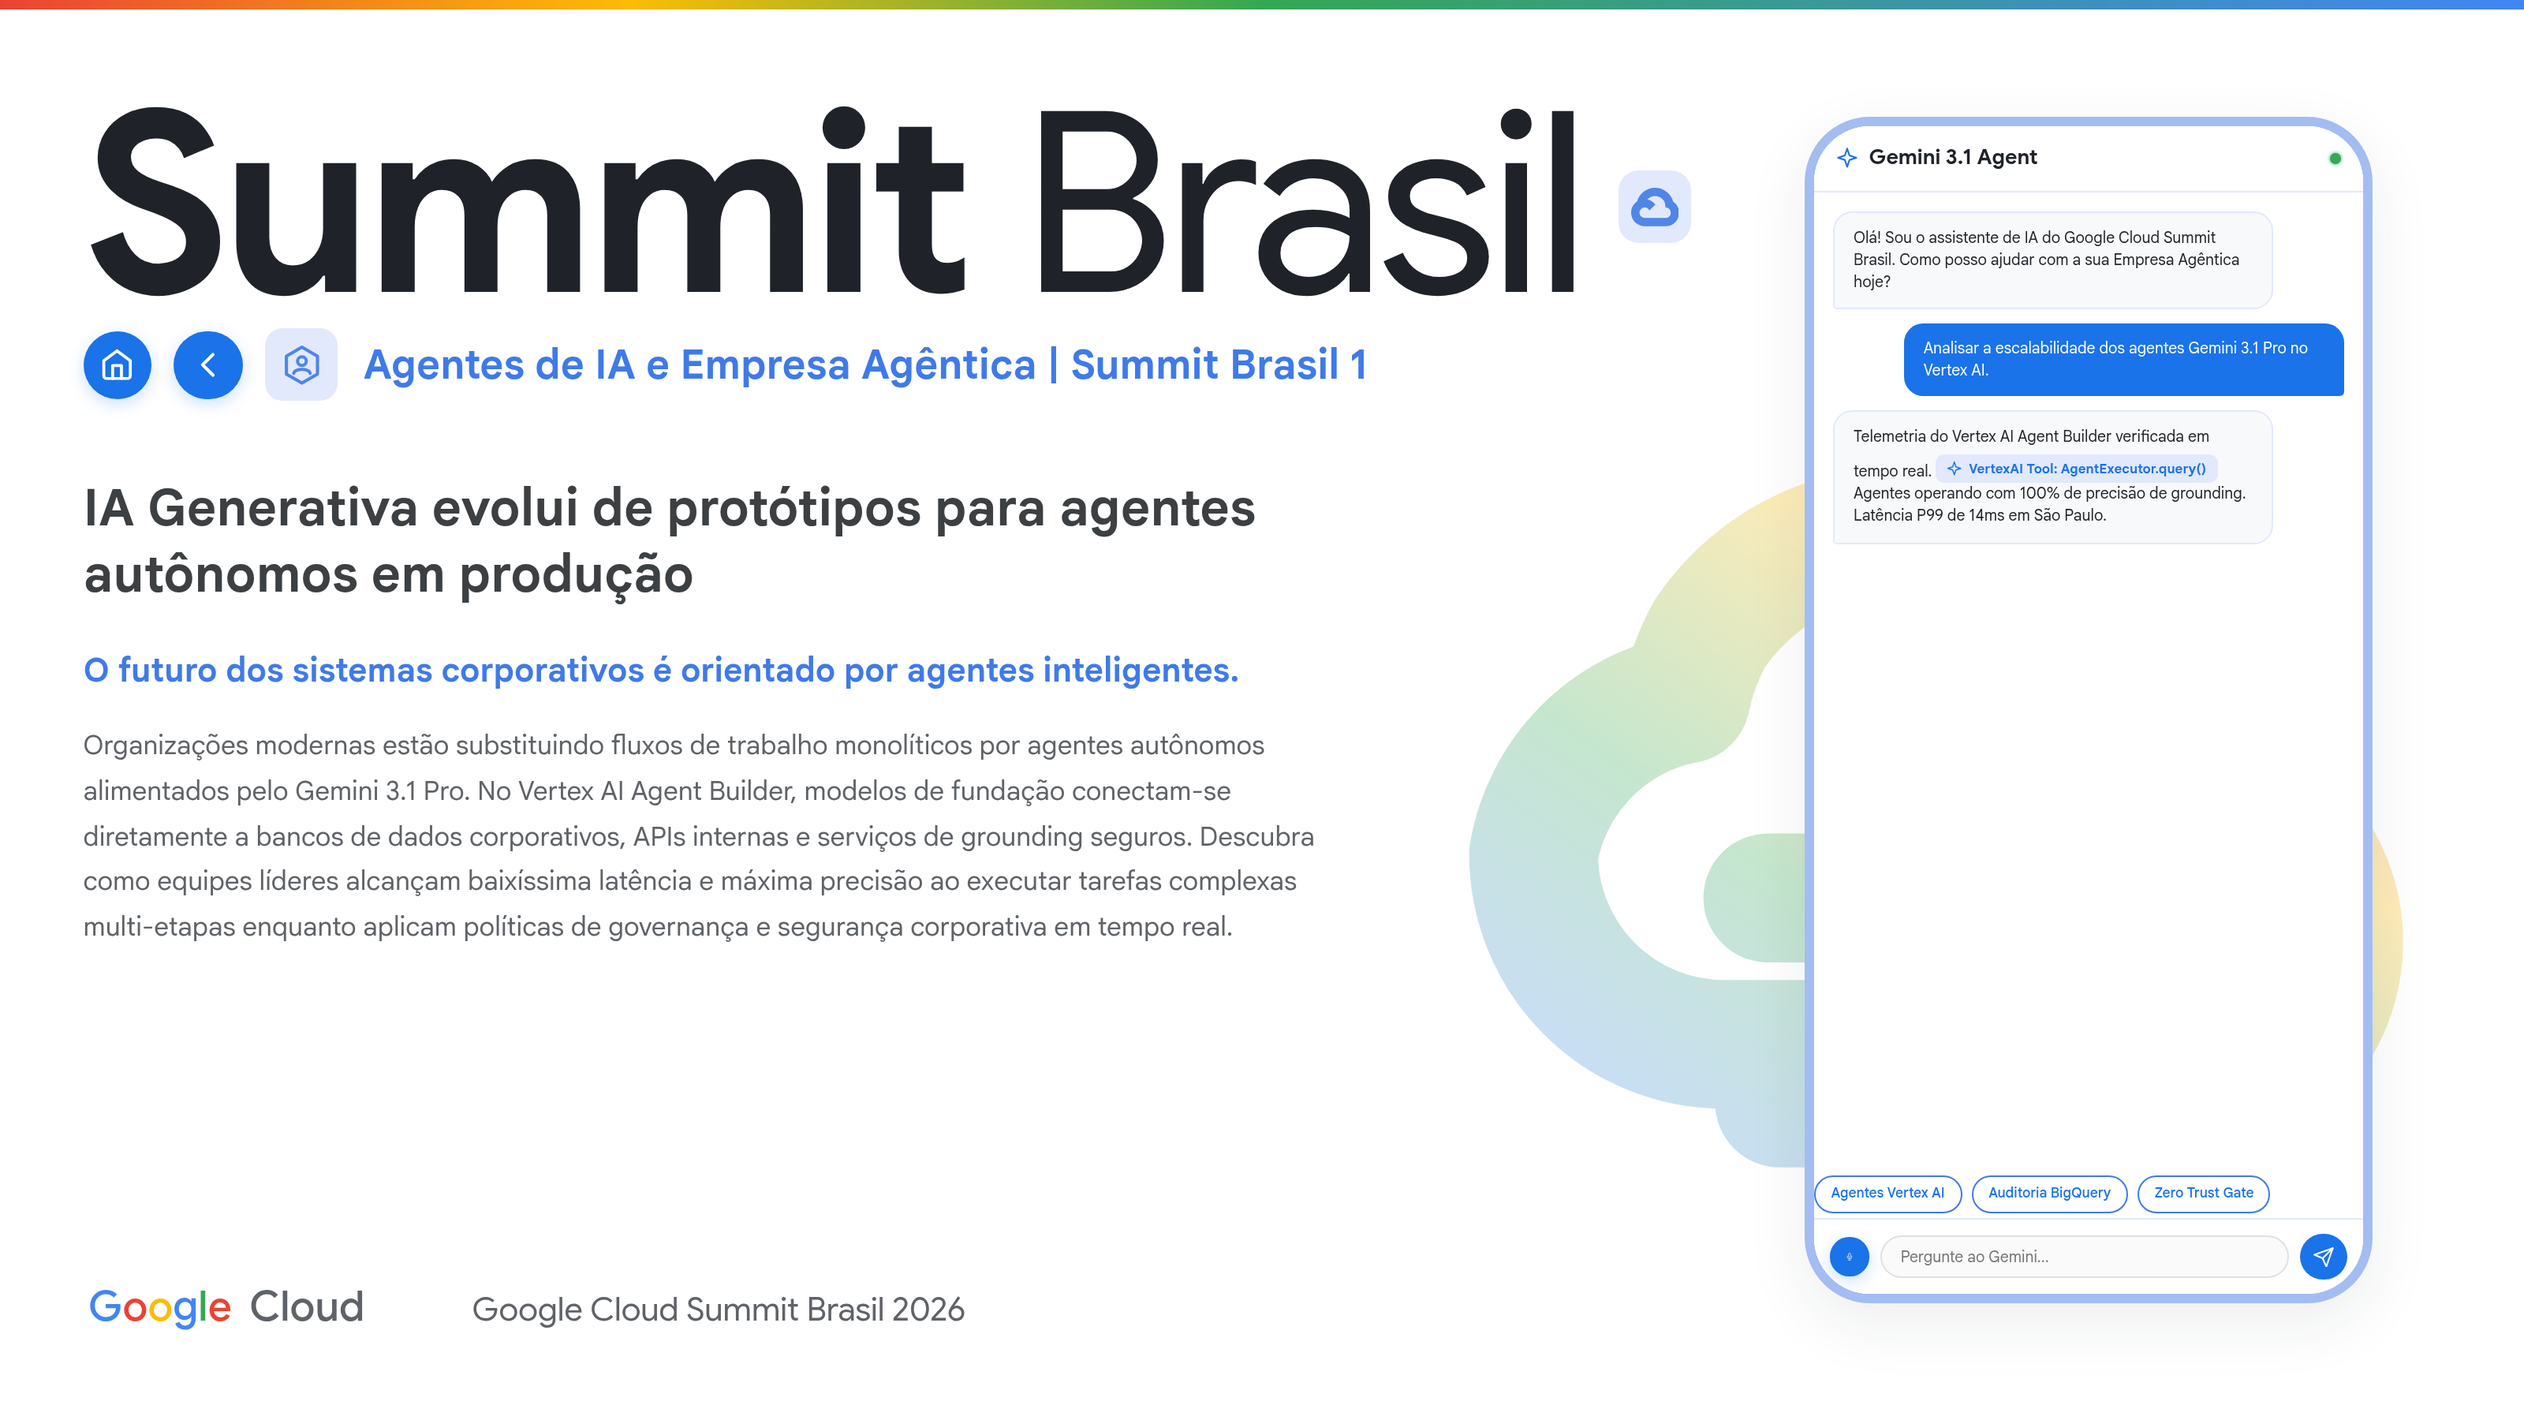
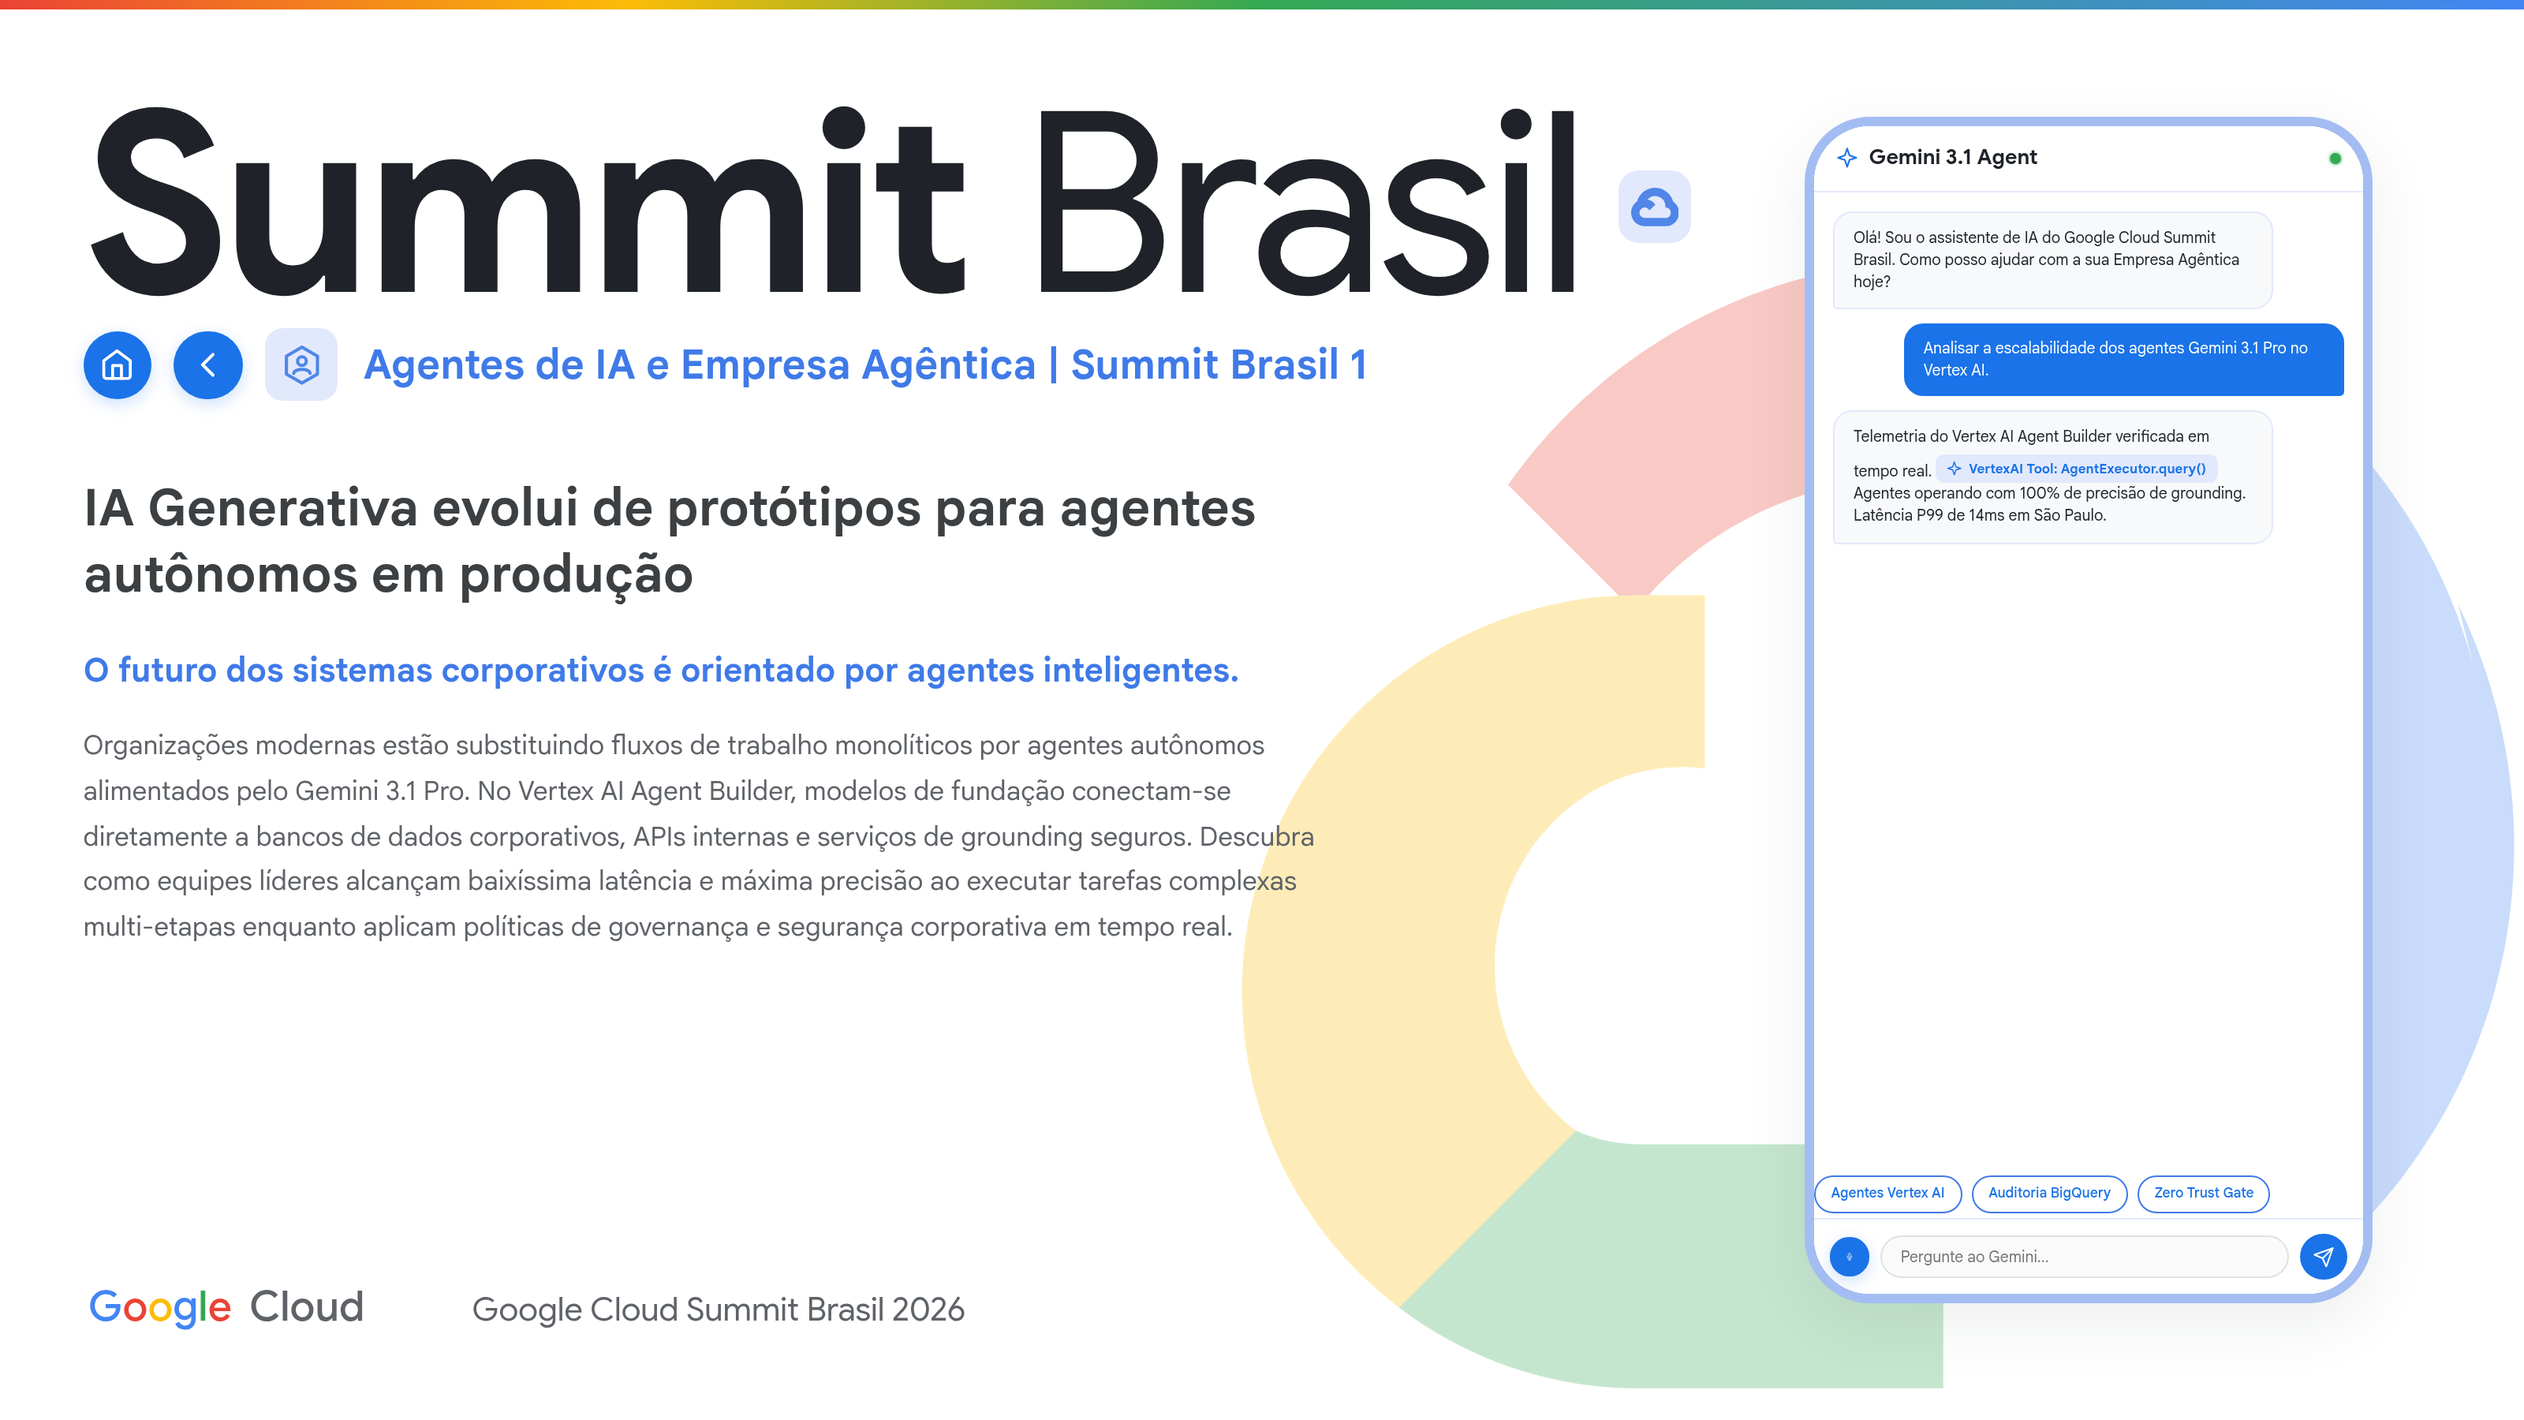
Update Super Cloud background SVG with official 4-color Google Cloud brand mark
- Extracted exact vector paths and brand color tokens (#EA4335 Google Red, #4285F4 Google Blue, #34A853 Google Green, #FBBC05 Google Yellow) from official Google Cloud SVG assets.
- Replaced single gradient stroke with authentic 4-segment Google Cloud cloud mark.
- Re-rendered desktop and mobile screenshots.

TAG=agy
CONV=0115c845-f4af-4da6-a951-9506ab856063

Changed region(s): [[0.4688, 0.1867, 0.7812, 0.9956], [0.9375, 0.3422, 1.0, 0.84]]

diff --git a/index.html b/index.html
@@ -40,16 +40,11 @@
   <div class="gc-progress-bar" aria-hidden="true"></div>
 
   <div class="gc-supercloud" aria-hidden="true">
-    <svg viewBox="0 0 500 500" fill="none" xmlns="http://www.w3.org/2000/svg">
-      <defs>
-        <linearGradient id="gc-sc-grad" x1="100%" y1="0%" x2="0%" y2="100%">
-          <stop offset="0%" stop-color="#ea4335" />
-          <stop offset="30%" stop-color="#fbbc05" />
-          <stop offset="65%" stop-color="#34a853" />
-          <stop offset="100%" stop-color="#4285f4" />
-        </linearGradient>
-      </defs>
-      <path d="M 194 340 L 330 340 A 55 55 0 0 0 385 285 A 55 55 0 0 0 330 230 A 55 55 0 0 0 316 232 A 80 80 0 0 0 170 180 A 80 80 0 0 0 162 202 A 65 65 0 0 0 110 255 A 65 65 0 0 0 175 320 L 220 320 A 25 25 0 0 0 245 295 A 25 25 0 0 0 220 270 L 190 270" stroke="url(#gc-sc-grad)" stroke-width="44" stroke-linecap="round" stroke-linejoin="round" />
+    <svg viewBox="0 0 192 192" fill="none" xmlns="http://www.w3.org/2000/svg">
+      <path fill="var(--gc-google-red)" d="M121.11,60.87l5.89,0.11l16.01-16.01l0.78-6.78C131.07,26.87,114.33,19.98,96,19.98c-23.78,0-44.52,11.63-57.11,29.54l16.65,16.65C64.65,54.45,79.16,47.98,96,47.98c11.23,0,21.57,3.95,29.74,10.57L121.11,60.87z" />
+      <path fill="var(--gc-google-blue)" d="M165.5,73.19c-3.71-13.72-11.39-25.82-21.72-35.01l-22.68,22.68c5.08,4.34,9.08,9.85,11.58,16.12c3.32,8.33,4.32,17.48,2.87,26.54c-1.45,9.06-5.45,17.47-11.58,24.36l22.68,22.68c10.33-9.19,18.01-21.29,21.72-35.01c4.52-16.71,2.83-34.66-4.87-50.36z" />
+      <path fill="var(--gc-google-green)" d="M56,167.98h39.97v-32H56c-2.94,0-5.72-0.65-8.24-1.8L42,135.95l-16.02,16.02l-1.4,5.41C33.4,164.06,44.25,167.98,56,167.98z" />
+      <path fill="var(--gc-google-yellow)" d="M56,63.98c-28.67,0-52,23.33-52,52c0,16.88,8.09,31.91,20.6,41.41l23.19-23.19c-4.47-3.37-7.79-8.15-9.47-13.65c-1.68-5.5-1.57-11.39,0.31-16.82c1.88-5.43,5.42-10.07,10.11-13.25c4.69-3.18,10.32-4.5,15.96-3.77V63.98z" />
     </svg>
   </div>
 

diff --git a/templates/01-cover.html b/templates/01-cover.html
@@ -38,16 +38,11 @@
   <div class="gc-progress-bar" aria-hidden="true"></div>
 
   <div class="gc-supercloud" aria-hidden="true">
-    <svg viewBox="0 0 500 500" fill="none" xmlns="http://www.w3.org/2000/svg">
-      <defs>
-        <linearGradient id="gc-sc-grad" x1="100%" y1="0%" x2="0%" y2="100%">
-          <stop offset="0%" stop-color="#ea4335" />
-          <stop offset="30%" stop-color="#fbbc05" />
-          <stop offset="65%" stop-color="#34a853" />
-          <stop offset="100%" stop-color="#4285f4" />
-        </linearGradient>
-      </defs>
-      <path d="M 194 340 L 330 340 A 55 55 0 0 0 385 285 A 55 55 0 0 0 330 230 A 55 55 0 0 0 316 232 A 80 80 0 0 0 170 180 A 80 80 0 0 0 162 202 A 65 65 0 0 0 110 255 A 65 65 0 0 0 175 320 L 220 320 A 25 25 0 0 0 245 295 A 25 25 0 0 0 220 270 L 190 270" stroke="url(#gc-sc-grad)" stroke-width="44" stroke-linecap="round" stroke-linejoin="round" />
+    <svg viewBox="0 0 192 192" fill="none" xmlns="http://www.w3.org/2000/svg">
+      <path fill="var(--gc-google-red)" d="M121.11,60.87l5.89,0.11l16.01-16.01l0.78-6.78C131.07,26.87,114.33,19.98,96,19.98c-23.78,0-44.52,11.63-57.11,29.54l16.65,16.65C64.65,54.45,79.16,47.98,96,47.98c11.23,0,21.57,3.95,29.74,10.57L121.11,60.87z" />
+      <path fill="var(--gc-google-blue)" d="M165.5,73.19c-3.71-13.72-11.39-25.82-21.72-35.01l-22.68,22.68c5.08,4.34,9.08,9.85,11.58,16.12c3.32,8.33,4.32,17.48,2.87,26.54c-1.45,9.06-5.45,17.47-11.58,24.36l22.68,22.68c10.33-9.19,18.01-21.29,21.72-35.01c4.52-16.71,2.83-34.66-4.87-50.36z" />
+      <path fill="var(--gc-google-green)" d="M56,167.98h39.97v-32H56c-2.94,0-5.72-0.65-8.24-1.8L42,135.95l-16.02,16.02l-1.4,5.41C33.4,164.06,44.25,167.98,56,167.98z" />
+      <path fill="var(--gc-google-yellow)" d="M56,63.98c-28.67,0-52,23.33-52,52c0,16.88,8.09,31.91,20.6,41.41l23.19-23.19c-4.47-3.37-7.79-8.15-9.47-13.65c-1.68-5.5-1.57-11.39,0.31-16.82c1.88-5.43,5.42-10.07,10.11-13.25c4.69-3.18,10.32-4.5,15.96-3.77V63.98z" />
     </svg>
   </div>
 

diff --git a/templates/02-menu.html b/templates/02-menu.html
@@ -39,16 +39,11 @@
   <div class="gc-progress-bar" aria-hidden="true"></div>
 
   <div class="gc-supercloud" aria-hidden="true">
-    <svg viewBox="0 0 500 500" fill="none" xmlns="http://www.w3.org/2000/svg">
-      <defs>
-        <linearGradient id="gc-sc-grad" x1="100%" y1="0%" x2="0%" y2="100%">
-          <stop offset="0%" stop-color="#ea4335" />
-          <stop offset="30%" stop-color="#fbbc05" />
-          <stop offset="65%" stop-color="#34a853" />
-          <stop offset="100%" stop-color="#4285f4" />
-        </linearGradient>
-      </defs>
-      <path d="M 194 340 L 330 340 A 55 55 0 0 0 385 285 A 55 55 0 0 0 330 230 A 55 55 0 0 0 316 232 A 80 80 0 0 0 170 180 A 80 80 0 0 0 162 202 A 65 65 0 0 0 110 255 A 65 65 0 0 0 175 320 L 220 320 A 25 25 0 0 0 245 295 A 25 25 0 0 0 220 270 L 190 270" stroke="url(#gc-sc-grad)" stroke-width="44" stroke-linecap="round" stroke-linejoin="round" />
+    <svg viewBox="0 0 192 192" fill="none" xmlns="http://www.w3.org/2000/svg">
+      <path fill="var(--gc-google-red)" d="M121.11,60.87l5.89,0.11l16.01-16.01l0.78-6.78C131.07,26.87,114.33,19.98,96,19.98c-23.78,0-44.52,11.63-57.11,29.54l16.65,16.65C64.65,54.45,79.16,47.98,96,47.98c11.23,0,21.57,3.95,29.74,10.57L121.11,60.87z" />
+      <path fill="var(--gc-google-blue)" d="M165.5,73.19c-3.71-13.72-11.39-25.82-21.72-35.01l-22.68,22.68c5.08,4.34,9.08,9.85,11.58,16.12c3.32,8.33,4.32,17.48,2.87,26.54c-1.45,9.06-5.45,17.47-11.58,24.36l22.68,22.68c10.33-9.19,18.01-21.29,21.72-35.01c4.52-16.71,2.83-34.66-4.87-50.36z" />
+      <path fill="var(--gc-google-green)" d="M56,167.98h39.97v-32H56c-2.94,0-5.72-0.65-8.24-1.8L42,135.95l-16.02,16.02l-1.4,5.41C33.4,164.06,44.25,167.98,56,167.98z" />
+      <path fill="var(--gc-google-yellow)" d="M56,63.98c-28.67,0-52,23.33-52,52c0,16.88,8.09,31.91,20.6,41.41l23.19-23.19c-4.47-3.37-7.79-8.15-9.47-13.65c-1.68-5.5-1.57-11.39,0.31-16.82c1.88-5.43,5.42-10.07,10.11-13.25c4.69-3.18,10.32-4.5,15.96-3.77V63.98z" />
     </svg>
   </div>
 

diff --git a/templates/03-cards.html b/templates/03-cards.html
@@ -44,16 +44,11 @@
   <div class="gc-progress-bar" aria-hidden="true"></div>
 
   <div class="gc-supercloud" aria-hidden="true">
-    <svg viewBox="0 0 500 500" fill="none" xmlns="http://www.w3.org/2000/svg">
-      <defs>
-        <linearGradient id="gc-sc-grad" x1="100%" y1="0%" x2="0%" y2="100%">
-          <stop offset="0%" stop-color="#ea4335" />
-          <stop offset="30%" stop-color="#fbbc05" />
-          <stop offset="65%" stop-color="#34a853" />
-          <stop offset="100%" stop-color="#4285f4" />
-        </linearGradient>
-      </defs>
-      <path d="M 194 340 L 330 340 A 55 55 0 0 0 385 285 A 55 55 0 0 0 330 230 A 55 55 0 0 0 316 232 A 80 80 0 0 0 170 180 A 80 80 0 0 0 162 202 A 65 65 0 0 0 110 255 A 65 65 0 0 0 175 320 L 220 320 A 25 25 0 0 0 245 295 A 25 25 0 0 0 220 270 L 190 270" stroke="url(#gc-sc-grad)" stroke-width="44" stroke-linecap="round" stroke-linejoin="round" />
+    <svg viewBox="0 0 192 192" fill="none" xmlns="http://www.w3.org/2000/svg">
+      <path fill="var(--gc-google-red)" d="M121.11,60.87l5.89,0.11l16.01-16.01l0.78-6.78C131.07,26.87,114.33,19.98,96,19.98c-23.78,0-44.52,11.63-57.11,29.54l16.65,16.65C64.65,54.45,79.16,47.98,96,47.98c11.23,0,21.57,3.95,29.74,10.57L121.11,60.87z" />
+      <path fill="var(--gc-google-blue)" d="M165.5,73.19c-3.71-13.72-11.39-25.82-21.72-35.01l-22.68,22.68c5.08,4.34,9.08,9.85,11.58,16.12c3.32,8.33,4.32,17.48,2.87,26.54c-1.45,9.06-5.45,17.47-11.58,24.36l22.68,22.68c10.33-9.19,18.01-21.29,21.72-35.01c4.52-16.71,2.83-34.66-4.87-50.36z" />
+      <path fill="var(--gc-google-green)" d="M56,167.98h39.97v-32H56c-2.94,0-5.72-0.65-8.24-1.8L42,135.95l-16.02,16.02l-1.4,5.41C33.4,164.06,44.25,167.98,56,167.98z" />
+      <path fill="var(--gc-google-yellow)" d="M56,63.98c-28.67,0-52,23.33-52,52c0,16.88,8.09,31.91,20.6,41.41l23.19-23.19c-4.47-3.37-7.79-8.15-9.47-13.65c-1.68-5.5-1.57-11.39,0.31-16.82c1.88-5.43,5.42-10.07,10.11-13.25c4.69-3.18,10.32-4.5,15.96-3.77V63.98z" />
     </svg>
   </div>
 

diff --git a/templates/04-article.html b/templates/04-article.html
@@ -44,16 +44,11 @@
   <div class="gc-progress-bar" aria-hidden="true"></div>
 
   <div class="gc-supercloud" aria-hidden="true">
-    <svg viewBox="0 0 500 500" fill="none" xmlns="http://www.w3.org/2000/svg">
-      <defs>
-        <linearGradient id="gc-sc-grad" x1="100%" y1="0%" x2="0%" y2="100%">
-          <stop offset="0%" stop-color="#ea4335" />
-          <stop offset="30%" stop-color="#fbbc05" />
-          <stop offset="65%" stop-color="#34a853" />
-          <stop offset="100%" stop-color="#4285f4" />
-        </linearGradient>
-      </defs>
-      <path d="M 194 340 L 330 340 A 55 55 0 0 0 385 285 A 55 55 0 0 0 330 230 A 55 55 0 0 0 316 232 A 80 80 0 0 0 170 180 A 80 80 0 0 0 162 202 A 65 65 0 0 0 110 255 A 65 65 0 0 0 175 320 L 220 320 A 25 25 0 0 0 245 295 A 25 25 0 0 0 220 270 L 190 270" stroke="url(#gc-sc-grad)" stroke-width="44" stroke-linecap="round" stroke-linejoin="round" />
+    <svg viewBox="0 0 192 192" fill="none" xmlns="http://www.w3.org/2000/svg">
+      <path fill="var(--gc-google-red)" d="M121.11,60.87l5.89,0.11l16.01-16.01l0.78-6.78C131.07,26.87,114.33,19.98,96,19.98c-23.78,0-44.52,11.63-57.11,29.54l16.65,16.65C64.65,54.45,79.16,47.98,96,47.98c11.23,0,21.57,3.95,29.74,10.57L121.11,60.87z" />
+      <path fill="var(--gc-google-blue)" d="M165.5,73.19c-3.71-13.72-11.39-25.82-21.72-35.01l-22.68,22.68c5.08,4.34,9.08,9.85,11.58,16.12c3.32,8.33,4.32,17.48,2.87,26.54c-1.45,9.06-5.45,17.47-11.58,24.36l22.68,22.68c10.33-9.19,18.01-21.29,21.72-35.01c4.52-16.71,2.83-34.66-4.87-50.36z" />
+      <path fill="var(--gc-google-green)" d="M56,167.98h39.97v-32H56c-2.94,0-5.72-0.65-8.24-1.8L42,135.95l-16.02,16.02l-1.4,5.41C33.4,164.06,44.25,167.98,56,167.98z" />
+      <path fill="var(--gc-google-yellow)" d="M56,63.98c-28.67,0-52,23.33-52,52c0,16.88,8.09,31.91,20.6,41.41l23.19-23.19c-4.47-3.37-7.79-8.15-9.47-13.65c-1.68-5.5-1.57-11.39,0.31-16.82c1.88-5.43,5.42-10.07,10.11-13.25c4.69-3.18,10.32-4.5,15.96-3.77V63.98z" />
     </svg>
   </div>
 

diff --git a/templates/05-components.html b/templates/05-components.html
@@ -28,16 +28,11 @@
   <div class="gc-progress-bar" aria-hidden="true"></div>
 
   <div class="gc-supercloud" aria-hidden="true">
-    <svg viewBox="0 0 500 500" fill="none" xmlns="http://www.w3.org/2000/svg">
-      <defs>
-        <linearGradient id="gc-sc-grad" x1="100%" y1="0%" x2="0%" y2="100%">
-          <stop offset="0%" stop-color="#ea4335" />
-          <stop offset="30%" stop-color="#fbbc05" />
-          <stop offset="65%" stop-color="#34a853" />
-          <stop offset="100%" stop-color="#4285f4" />
-        </linearGradient>
-      </defs>
-      <path d="M 194 340 L 330 340 A 55 55 0 0 0 385 285 A 55 55 0 0 0 330 230 A 55 55 0 0 0 316 232 A 80 80 0 0 0 170 180 A 80 80 0 0 0 162 202 A 65 65 0 0 0 110 255 A 65 65 0 0 0 175 320 L 220 320 A 25 25 0 0 0 245 295 A 25 25 0 0 0 220 270 L 190 270" stroke="url(#gc-sc-grad)" stroke-width="44" stroke-linecap="round" stroke-linejoin="round" />
+    <svg viewBox="0 0 192 192" fill="none" xmlns="http://www.w3.org/2000/svg">
+      <path fill="var(--gc-google-red)" d="M121.11,60.87l5.89,0.11l16.01-16.01l0.78-6.78C131.07,26.87,114.33,19.98,96,19.98c-23.78,0-44.52,11.63-57.11,29.54l16.65,16.65C64.65,54.45,79.16,47.98,96,47.98c11.23,0,21.57,3.95,29.74,10.57L121.11,60.87z" />
+      <path fill="var(--gc-google-blue)" d="M165.5,73.19c-3.71-13.72-11.39-25.82-21.72-35.01l-22.68,22.68c5.08,4.34,9.08,9.85,11.58,16.12c3.32,8.33,4.32,17.48,2.87,26.54c-1.45,9.06-5.45,17.47-11.58,24.36l22.68,22.68c10.33-9.19,18.01-21.29,21.72-35.01c4.52-16.71,2.83-34.66-4.87-50.36z" />
+      <path fill="var(--gc-google-green)" d="M56,167.98h39.97v-32H56c-2.94,0-5.72-0.65-8.24-1.8L42,135.95l-16.02,16.02l-1.4,5.41C33.4,164.06,44.25,167.98,56,167.98z" />
+      <path fill="var(--gc-google-yellow)" d="M56,63.98c-28.67,0-52,23.33-52,52c0,16.88,8.09,31.91,20.6,41.41l23.19-23.19c-4.47-3.37-7.79-8.15-9.47-13.65c-1.68-5.5-1.57-11.39,0.31-16.82c1.88-5.43,5.42-10.07,10.11-13.25c4.69-3.18,10.32-4.5,15.96-3.77V63.98z" />
     </svg>
   </div>
 
